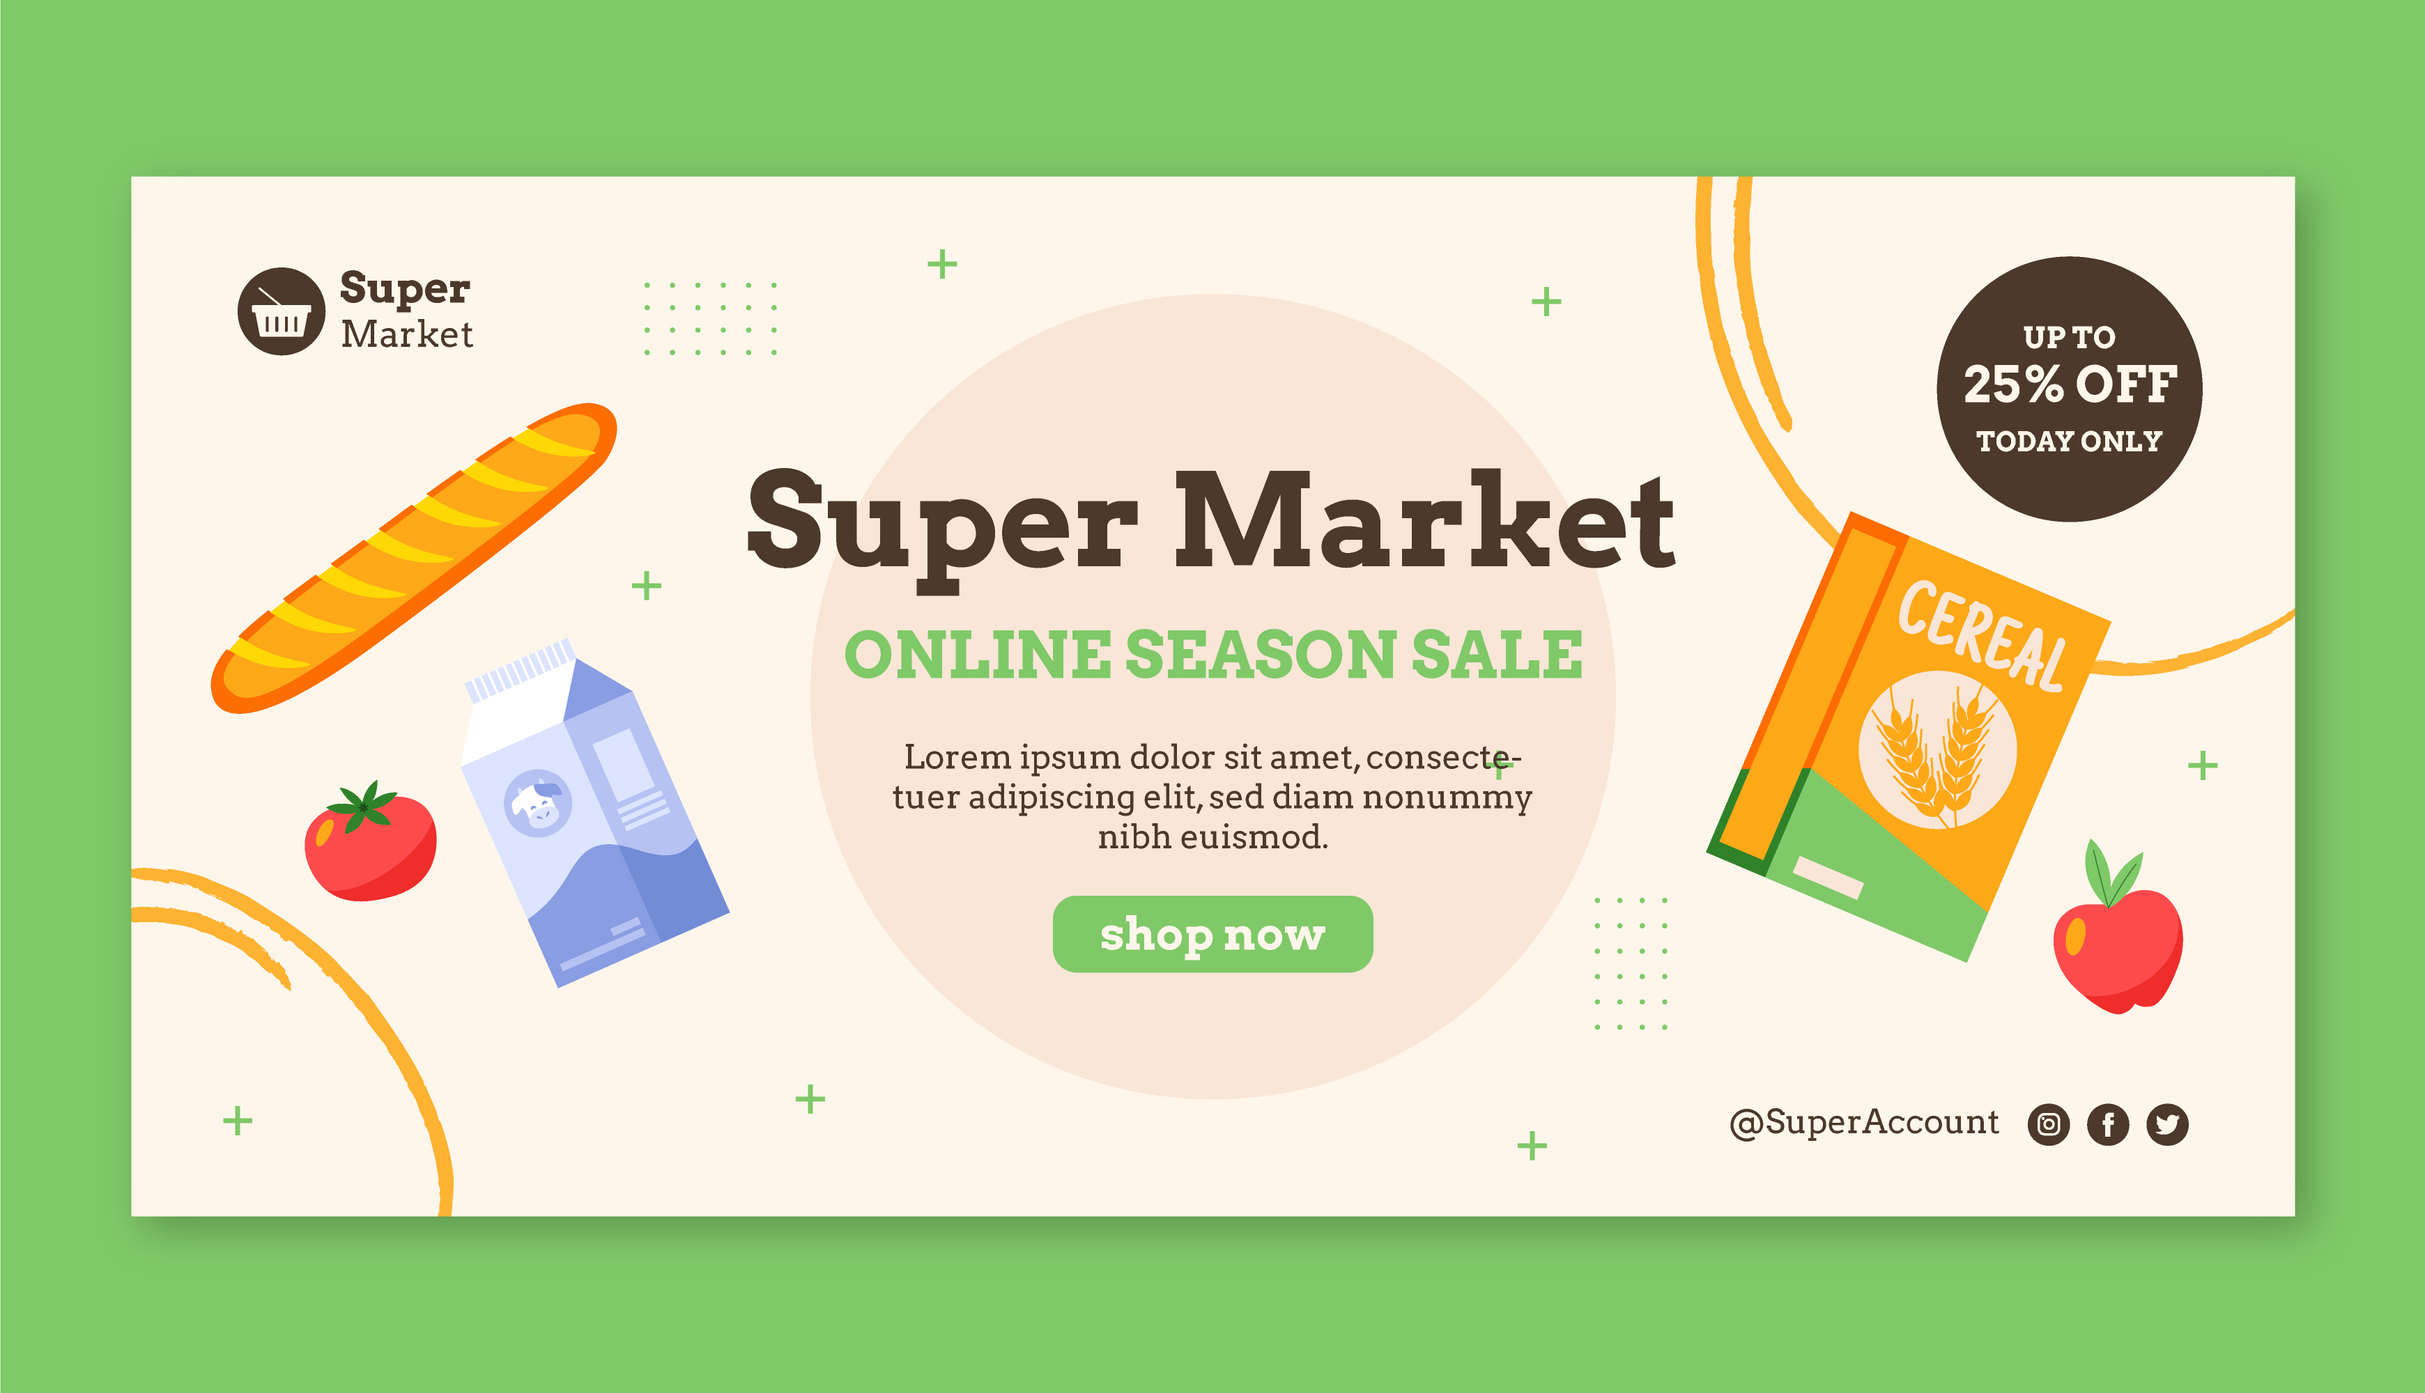
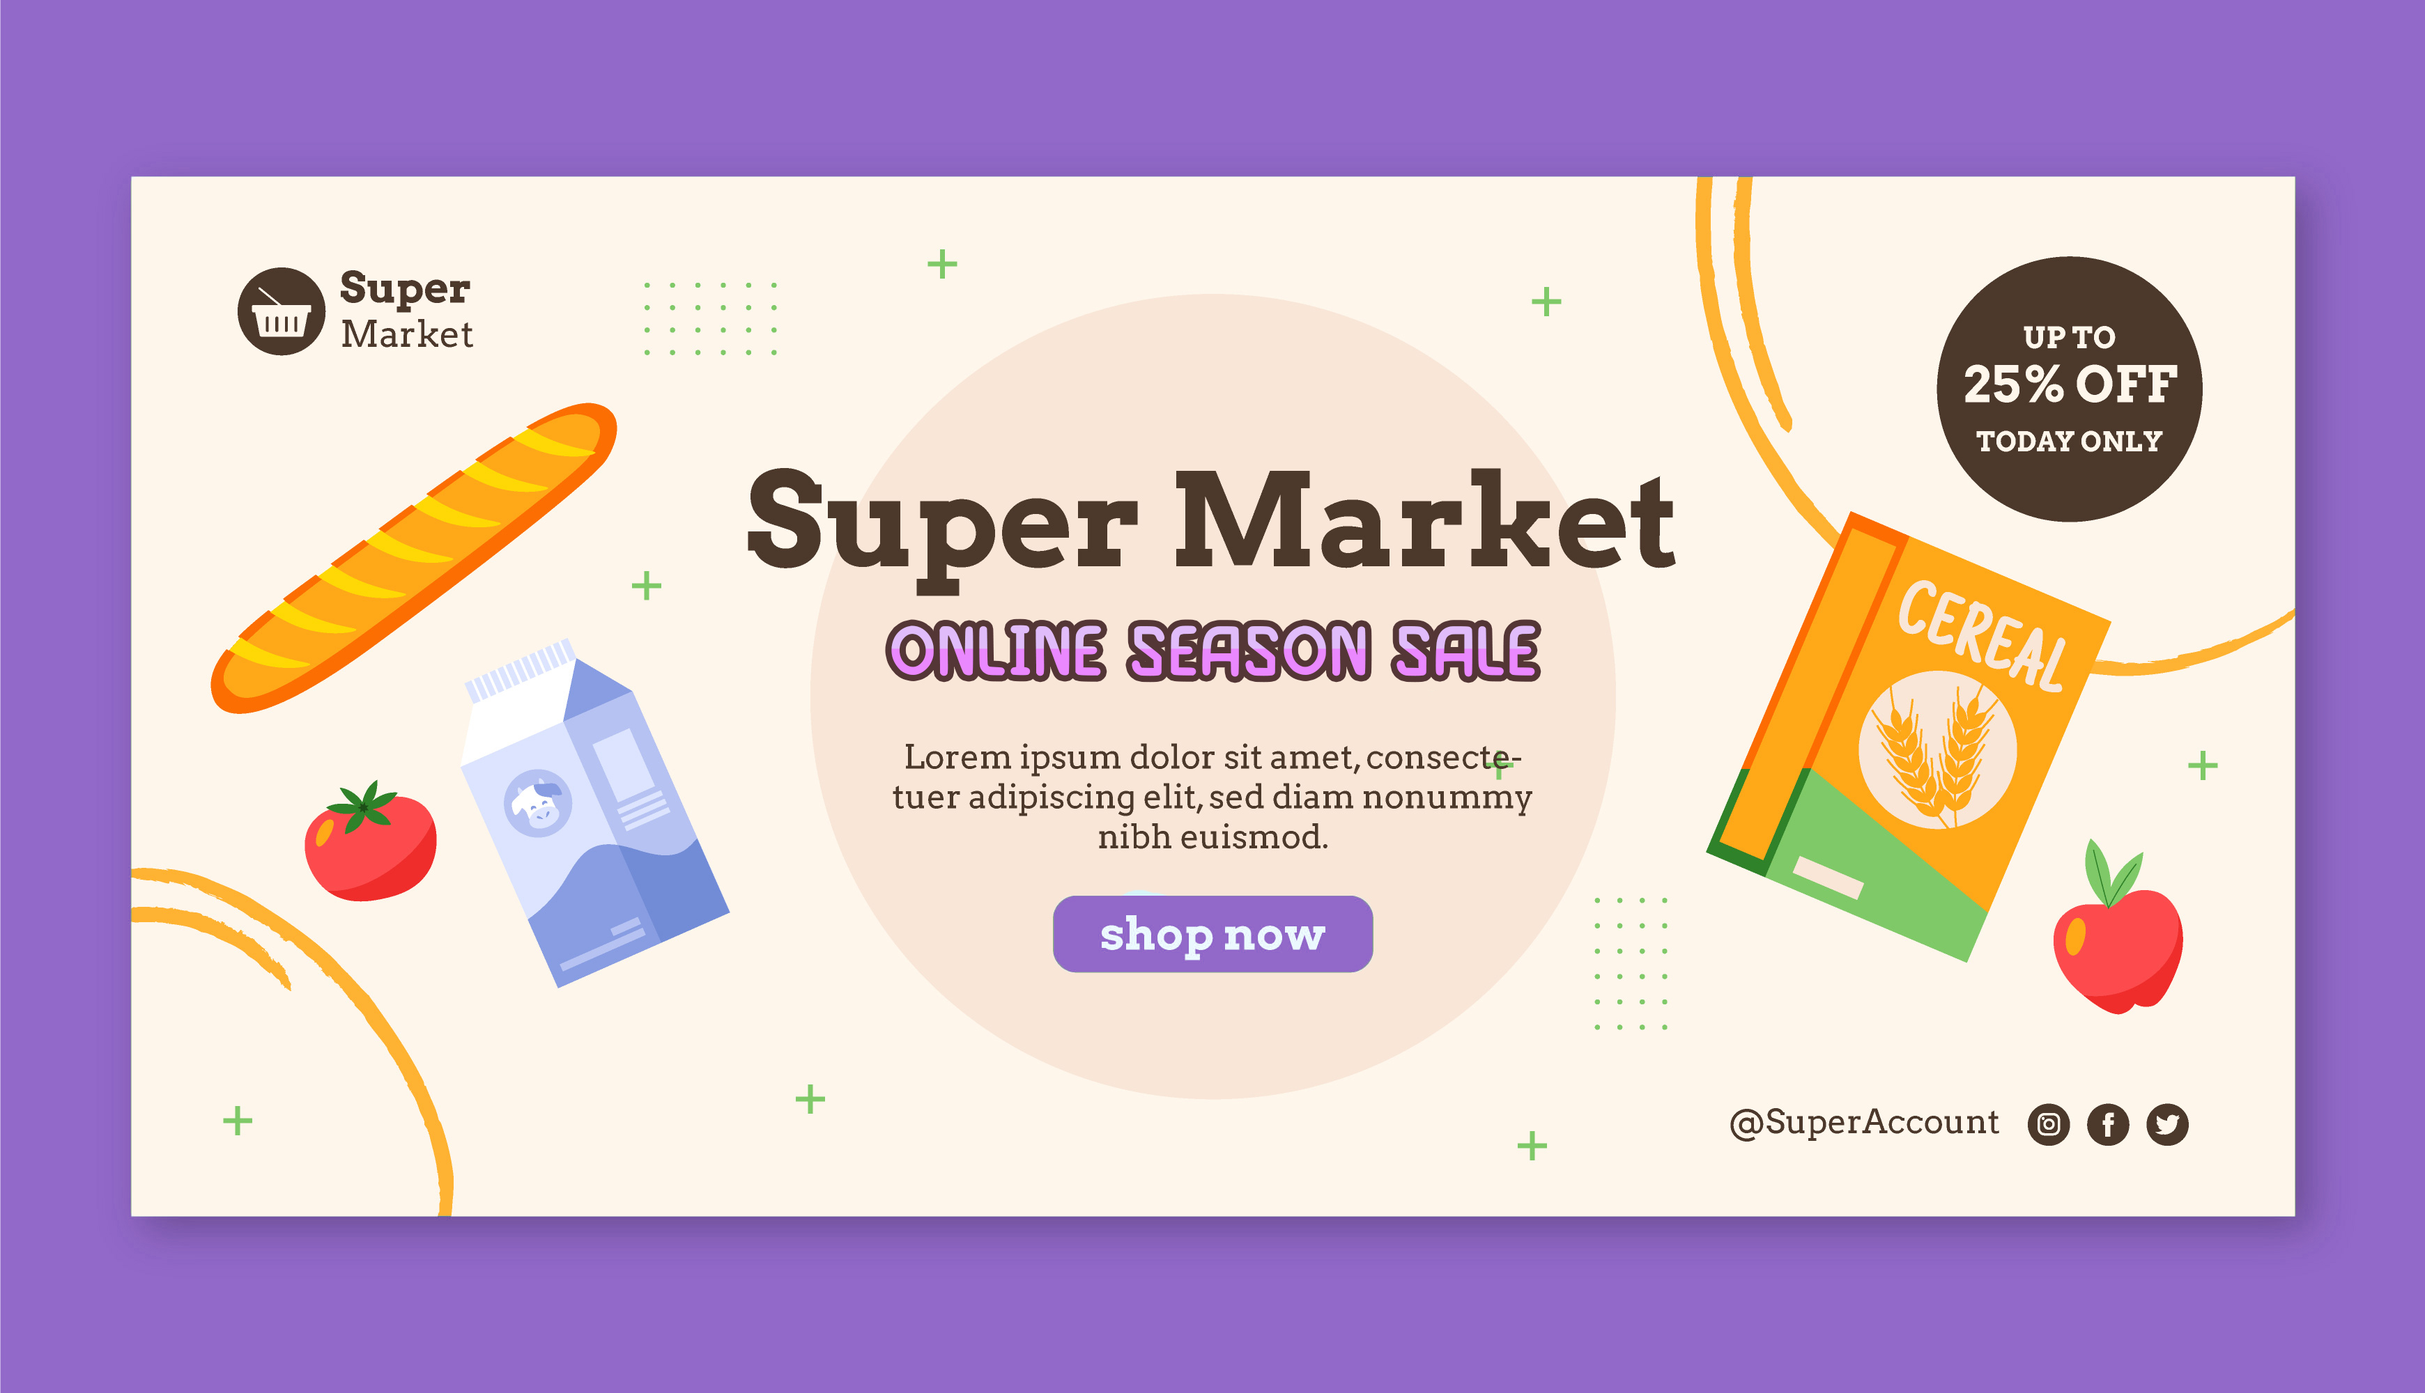
Final

diff --git a/src/pages/Products.jsx b/src/pages/Products.jsx
@@ -1,112 +1,113 @@
-import React from 'react'
+import React from 'react';
 import Cardprod from '../components/Cardprod';
 import { Link } from 'react-router-dom';
 
 const Products = () => {
     const p = [
-          {
+        {
             image: "Apple.png",
             name: "แอปเปิ้ลเขียว",
             description: "แอปเปิ้ลเขียวนำเข้าจากญี่ปุ่น",
             price: "20.00฿/ต่อลูก"
-          },
-          {
+        },
+        {
             image: "Red Apple.png",
             name: "แอปเปิ้ลแดง",
             description: "แอปเปิ้ลแดงนำเข้าจากญี่ปุ่น",
             price: "20.00฿/ต่อลูก"
-          },
-          {
+        },
+        {
             image: "Orange.png",
             name: "ส้ม ส้ม",
             description: "ส้มนำเข้าจากญี่ปุ่น",
             price: "20.00฿/ต่อลูก"
-          },
-          {
+        },
+        {
             image: "Cheese.png",
             name: "ชีส",
             description: "ชีสนำเข้าจากเยอรมัน",
             price: "85.00฿"
-          },
-          {
+        },
+        {
             image: "Eggland.png",
             name: "ไข่ไก่เบอร์ 0",
             description: "ไข่ไก่จากอภิชาติฟาร์ม เบอร์แรงแซงทางโค้ง",
             price: "120.00฿"
-          },
-          {
+        },
+        {
             image: "Fritos.png",
             name: "ขนม Fritos รสบาบีคิว",
             description: "ผลิตจากมันฝรั่งแท้ๆ รสชาติบาบีคิว",
             price: "25.00฿"
-          },
-          {
+        },
+        {
             image: "meat1.png",
             name: "เนื้อเกรด S+",
             description: "เนื้อวัวที่โตในวัง เลี้ยงด้วยอาหารอย่างดี",
             price: "500.00฿"
-          },
-          {
+        },
+        {
             image: "meat3.png",
             name: "เนื้อเกรด S+",
             description: "เนื้อวัวที่โตในวัง เลี้ยงด้วยอาหารอย่างดี",
             price: "500.00฿"
-          },
-          {
+        },
+        {
             image: "Bread.png",
             name: "ขนมปัง",
-            description: "ขนมปังนุ่มละลายในปาก หอมแป้งสาลีจากล้านนา",
+            description: "ขนมปังนุ่ม หอมแป้งสาลีจากล้านนา",
             price: "30.00฿"
-          },
-          {
+        },
+        {
             image: "Velveeta (1).png",
             name: "ชีส Velveeta",
-            description: "เวลวีตาเป็นชื่อตราสินค้าของชีสแปรรูปที่คล้ายกับชีสอเมริกัน",
+            description: "เวลวีตาเป็นชื่อตราสินค้าของชีสแปรรูป",
             price: "60.00฿"
-          },
-          {
+        },
+        {
             image: "Velveeta (2).png",
             name: "ชีส Velveeta แบบกล่อง",
-            description: "เวลวีตาเป็นชื่อตราสินค้าของชีสแปรรูปที่คล้ายกับชีสอเมริกัน",
+            description: "เวลวีตาเป็นชื่อตราสินค้าของชีสแปรรูป",
             price: "120.00฿"
-          },
-          {
+        },
+        {
             image: "Smart Balance Original.png",
             name: "Smart Balance Original",
-            description: "เป็นทางเลือกที่ดีต่อสุขภาพแทนเนยจริงๆ นะ",
+            description: "เป็นทางเลือกที่ดีต่อสุขภาพ",
             price: "60.00฿"
-          },
-          {
+        },
+        {
             image: "Milk.png",
             name: "นมวัว",
             description: "นมวัวแท้ๆ จากวัวที่โตในวังถูกเลี้ยงมาอย่างดี",
             price: "65.00฿"
-          },
-          {
+        },
+        {
             image: "Salmon.png",
             name: "ปลาแซลมอน",
             description: "ปลาแซลมอนจากนอร์เวย์ที่กลับไปวางไข่",
             price: "120.00฿"
-          },
-          {
+        },
+        {
             image: "Blueberries.png",
             name: "บลูเบอรรี่",
             description: "บลูเบอรรี่ฉ่ำๆ เปรี้ยมอมหวาน  จากเชียงใหม่",
             price: "60.00฿"
-          },
+        },
+    ];
 
-        ];
-      return (
-          <div className="p-4">
-              <div className="grid grid-cols-2 md:grid-cols-3 lg:grid-cols-5 gap-2">
-                  {p.map((product) => (
-                      <div key={product.name} className="w-full">
-                          <Link to={`/product/${product.name}`}></Link>
-                              <Cardprod {...product} />
-                      </div>
-                  ))}
-              </div>
-          </div>
-      );
-  };
+    return (
+        <div className="p-1">
+            <div className="grid grid-cols-2 md:grid-cols-3 lg:grid-cols-5 gap-2">
+                {p.map((product) => (
+                    <div key={product.name} className="w-full">
+                        <Link to={`/product/${product.name}`}></Link>
+                        <Cardprod {...product} />
+                    </div>
+                ))}
+            </div>
+        </div>
+    );
+};
+
 export default Products;

diff --git a/src/components/Cardprod.jsx b/src/components/Cardprod.jsx
@@ -18,32 +18,42 @@ const Cardprod = (props) => {
     };
 
     return (
-        <div className="max-w-xs sm:max-w-sm md:max-w-md lg:max-w-lg bg-white border border-gray-200 p-2 rounded-lg shadow transition-transform hover:scale-105">
+        <div className="max-w-xs sm:max-w-sm md:max-w-md lg:max-w-lg bg-white border border-gray-200 p-3 rounded-lg shadow-md hover:shadow-lg transition-transform hover:scale-105 transform duration-300 ease-in-out">
+            {/* ลิงก์ไปยังหน้ารายละเอียดสินค้า */}
             <NavLink to={`/product/${props.name}`}>
-                <div className="w-full h-40 sm:h-48 md:h-56 overflow-hidden rounded-t-lg">
+                <div className="w-full h-40 sm:h-48 md:h-56 lg:h-60 overflow-hidden rounded-t-lg">
                     <img className="w-full h-full object-cover" src={`/images/${props.image}`} alt={props.name} />
                 </div>
-                <h5 className="text-sm sm:text-md md:text-lg lg:text-xl font-semibold tracking-tight text-gray-900 dark:text-white mt-2">
+                <h5 className="mt-2 text-sm sm:text-lg md:text-xl lg:text-2xl font-semibold tracking-tight text-gray-900">
                     {props.name}
                 </h5>
-                <p className="text-xs sm:text-sm mt-1">{props.description}</p>
+                <p className="text-xs sm:text-sm mt-1 text-gray-700">
+                    {props.description}
+                </p>
             </NavLink>
 
-            <div className="flex flex-col sm:flex-row justify-between mt-3">
-                <span className="text-xs sm:text-sm md:text-base font-medium text-gray-900 dark:text-white">
+            {/* ส่วนของราคาและปุ่มเพิ่มสินค้าลงตะกร้า */}
+            <div className="flex justify-between items-center mt-3">
+                <span className="text-xs sm:text-sm md:text-base font-medium text-gray-900">
                     {props.price}
                 </span>
-                <div className="flex mt-2 sm:mt-0">
-                    <button
-                        onClick={() => {
-                            addToCart({ name: props.name, price: props.price, image: props.image, quantity: 1 });
-                            showAddCartAlert();
-                        }}
-                        className="flex items-center text-white bg-purple-400 hover:bg-purple-500 p-2 rounded-lg"
-                    >
-                        <svg xmlns="http://www.w3.org/2000/svg" width="24" height="24" viewBox="0 0 24 24" fill="none" stroke="currentColor" strokeWidth="2" strokeLinecap="round" strokeLinejoin="round" className="lucide lucide-shopping-basket"><path d="m15 11-1 9" /><path d="m19 11-4-7" /><path d="M2 11h20" /><path d="m3.5 11 1.6 7.4a2 2 0 0 0 2 1.6h9.8a2 2 0 0 0 2-1.6l1.7-7.4" /><path d="M4.5 15.5h15" /><path d="m5 11 4-7" /><path d="m9 11 1 9" /></svg>
-                    </button>
-                </div>
+                <button
+                    onClick={() => {
+                        addToCart({ name: props.name, price: props.price, image: props.image, quantity: 1 });
+                        showAddCartAlert();
+                    }}
+                    className="flex items-center text-white bg-purple-500 hover:bg-purple-600 p-2 rounded-lg transition-all duration-300"
+                >
+                    <svg xmlns="http://www.w3.org/2000/svg" width="24" height="24" viewBox="0 0 24 24" fill="none" stroke="currentColor" strokeWidth="2" strokeLinecap="round" strokeLinejoin="round" className="lucide lucide-shopping-basket">
+                        <path d="m15 11-1 9" />
+                        <path d="m19 11-4-7" />
+                        <path d="M2 11h20" />
+                        <path d="m3.5 11 1.6 7.4a2 2 0 0 0 2 1.6h9.8a2 2 0 0 0 2-1.6l1.7-7.4" />
+                        <path d="M4.5 15.5h15" />
+                        <path d="m5 11 4-7" />
+                        <path d="m9 11 1 9" />
+                    </svg>
+                </button>
             </div>
         </div>
     );

diff --git a/src/components/SlideShow.jsx b/src/components/SlideShow.jsx
@@ -1,0 +1,65 @@
+import React, { useState, useEffect } from 'react';
+
+const SlideShow = () => {
+  const [slideIndex, setSlideIndex] = useState(0);
+
+  const slides = [
+    { src: "./images/Banner.jpg", alt: "Banner1" },
+    { src: "./images/banner1.jpg", alt: "Banner2" },
+  ];
+
+  useEffect(() => {
+    const interval = setInterval(() => {
+      setSlideIndex((prevIndex) => (prevIndex + 1) % slides.length);
+    }, 5000); // สไลด์อัตโนมัติทุกๆ 5 วินาที
+    return () => clearInterval(interval);
+  }, [slides.length]);
+
+  const plusSlides = (n) => {
+    setSlideIndex((prevIndex) => (prevIndex + n + slides.length) % slides.length);
+  };
+
+  const currentSlide = (n) => {
+    setSlideIndex(n);
+  };
+
+  return (
+    <div className="max-w-4xl mx-auto relative ">
+      {slides.map((slide, index) => (
+        <div
+          key={index}
+          className={`mySlides fade ${index === slideIndex ? "block" : "hidden"}`}
+        >
+          <img src={slide.src} alt={slide.alt} className="w-full rounded-lg h-auto max-h-[300px] sm:max-h-[400px] object-cover" />
+        </div>
+      ))}
+
+      <button
+        className="prev absolute top-1/2 text-white font-bold text-lg p-2 bg-black bg-opacity-50 hover:bg-opacity-75 rounded-r transform -translate-y-1/2"
+        onClick={() => plusSlides(-1)}
+      >
+        &#10094;
+      </button>
+      <button
+        className="next absolute top-1/2 right-[0px] text-white font-bold text-lg p-2 bg-black bg-opacity-50 hover:bg-opacity-75 rounded-l transform -translate-y-1/2"
+        onClick={() => plusSlides(1)}
+      >
+        &#10095;
+      </button>
+
+      <div className="text-center mt-4">
+        {slides.map((_, index) => (
+          <span
+            key={index}
+            className={`dot h-3 w-3 mx-1 bg-gray-400 rounded-full inline-block ${
+              index === slideIndex ? "bg-gray-700" : ""
+            } cursor-pointer`}
+            onClick={() => currentSlide(index)}
+          ></span>
+        ))}
+      </div>
+    </div>
+  );
+};
+
+export default SlideShow;

diff --git a/src/pages/Home.jsx b/src/pages/Home.jsx
@@ -3,17 +3,23 @@ import React from "react";
 import Layout from "../components/Layout";
 import Bbg from "/images/Banner.jpg";
 import Products from "./Products";
+import SlideShow from "../components/SlideShow";
 
 const Home = () => {
   return (
     <Layout>
-      <div className="p-4 md:p-6 lg:p-8">
+      <div className="p-2 md:p-4 lg:p-6">
         <h1 className="text-3xl md:text-4xl lg:text-6xl font-bold text-center text-purple-500 mb-4">
           สินค้าต่างๆ
         </h1>
+        <div className="bg-purple-100 rounded-xl pt-10">
+          <SlideShow/>
+        </div>
 
-        {/* All Product */}
-        <Products />
+        <div className="pt-3">
+            <Products />
+        </div>
+
       </div>
     </Layout>
   );

diff --git a/src/components/Footer.jsx b/src/components/Footer.jsx
@@ -37,7 +37,7 @@ const Footer = () => {
           </div>
         </div>
       </div>
-    <p className='bg-purple-300 text-center font-medium text-purple-600 p-2'>©Copyright 2024:Khan</p>
+    <p className='bg-purple-500 text-center font-medium text-white p-2'>©Copyright 2024:Khan</p>
     </>
   )
 }
